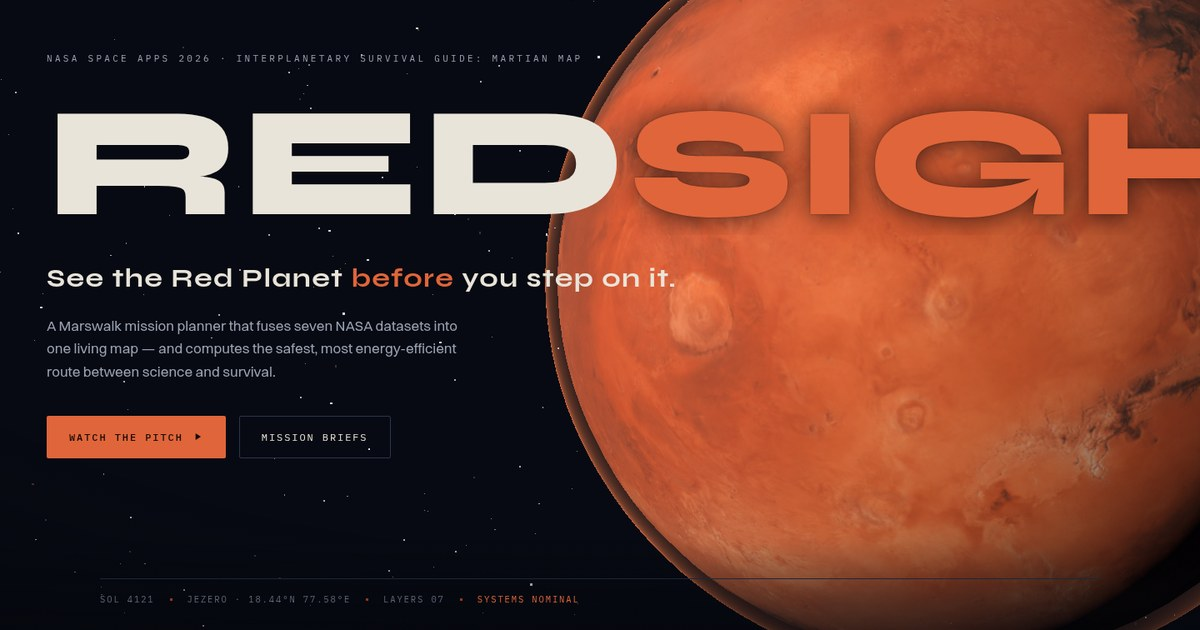
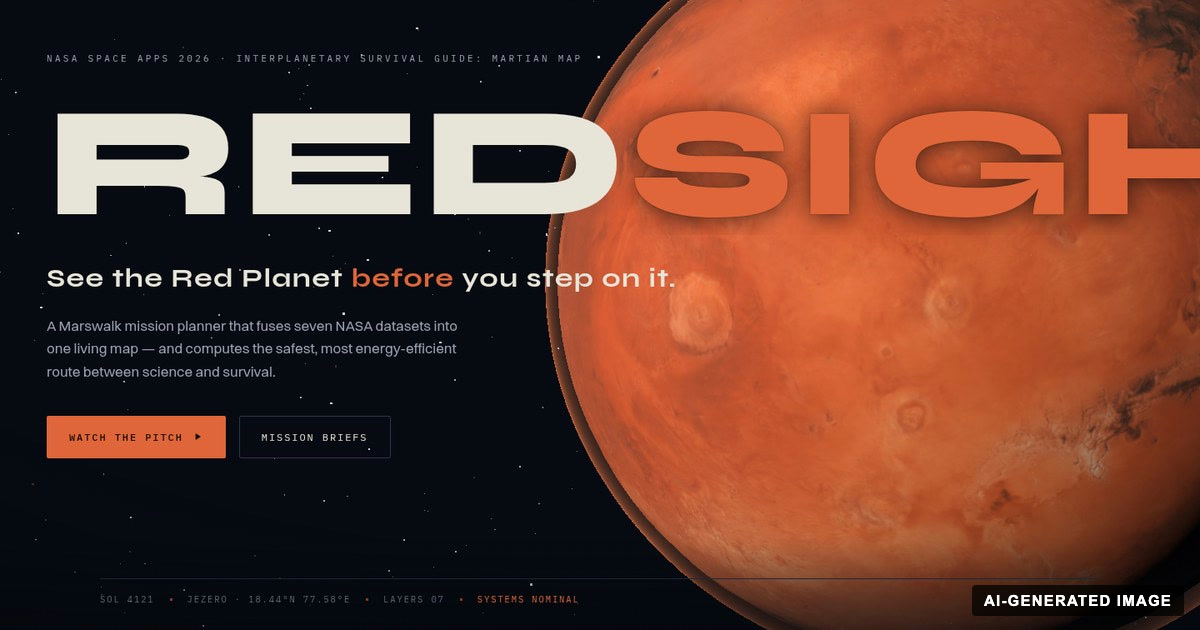
docs+landing: final SI disclosure (Manus AI, Claude; astronaut self-made); visible AI-GENERATED mark on og-image; live copilot reply capture

Changed region(s): [[0.8017, 0.9048, 0.9867, 0.9952]]

diff --git a/docs/submission/project-page.md b/docs/submission/project-page.md
@@ -66,7 +66,7 @@ walk-scale radiation or weather map exists, and the app says so.
 
 ## Use of Super Intelligence (SI)
 
-*Updated 2026-11-14 from the repository. Items marked **[Team: confirm]** are not provable from the repo.*
+*Updated 2026-11-14 from the repository and the team's answers.*
 
 **Idea and decisions: people, not SI.** The team chose the problem framing, the site (Gale crater / lower
 Mount Sharp, boxwork), the features, the oxygen model's sources and the data sources. Per the Submission
@@ -76,7 +76,8 @@ Guide, SI was not used to come up with how to solve the challenge.
 - **Claude Code** (Anthropic; models Claude Opus 5.5 and Claude Sonnet 5.5, credited as co-author on ~96
   commits): helped write and test code (app, engine, server, capture scripts), summarize papers and
   documentation, and edit text. Team members reviewed, ran and tested every change before merging.
-- **[Team: confirm]** any other assistant a member used (e.g. ChatGPT, Gemini, Copilot), and for what.
+- **Claude (claude.ai)** and **Manus AI**: research help, drafting and editing text, and planning; the team checked
+  every claim against primary sources before using it.
 
 **SI inside the app (runtime features, labeled in the UI):**
 - **Voice/text copilot:** a large language model answers questions about the mission plan and can operate
@@ -90,10 +91,10 @@ Guide, SI was not used to come up with how to solve the challenge.
 - **AI-generated audio:** the narration of the walkthrough video and the two astronaut voice clips on
   slide 6 of the deck are synthetic voices (Kokoro TTS). Stated on the video's end card, in its file metadata
   and in the slide notes.
-- **No AI-generated images or video** in the app or demo: map and photos are NASA/USGS data, screen recordings
-  are of the working app. **[Team: confirm]** the origin of the 3D astronaut model
-  (`app/src/copilot/assets/astronaut.glb`) and the landing image (`landing/public/assets/og-image.jpg`): if
-  either was AI-generated, add a visible "AI-generated" mark and list it here.
+- **AI-generated image:** the landing page's share image (`landing/public/assets/og-image.jpg`) is AI-generated;
+  it carries a visible "AI-GENERATED IMAGE" mark.
+- **No other AI-generated images or video:** map and photos are NASA/USGS data, screen recordings are of the
+  working app, and the 3D astronaut model (`app/src/copilot/assets/astronaut.glb`) was made by the team.
 - No NASA logos or branding in any AI-generated content.
 
 ## NASA Data

diff --git a/docs/submission/compliance-remaining-2026-11-14.md b/docs/submission/compliance-remaining-2026-11-14.md
@@ -40,7 +40,7 @@ Sources: [`../../requirements/competition-requirements.md`](../../requirements/c
   - Identify where the source `astronaut_animated.glb` (referenced in [`../astronaut-performance.md`](../astronaut-performance.md), shipped as [`../../app/src/copilot/assets/astronaut.glb`](../../app/src/copilot/assets/astronaut.glb)) came from, its license/permission, and whether it was AI-generated.
   - Add `Solar System Scope (CC BY 4.0)` (`mars-color-2k.jpg`), font licenses (`OFL`), `astronaut.glb`, and software/model dependencies (`MapLibre`, `Three.js`, `Kokoro`, `Whisper` / `@huggingface/transformers`, `Groq` / `Gemini` copilot providers, etc.) to the submission credits in [`project-page.md`](project-page.md), [`../../README.md`](../../README.md), and the Project Description PDF.
   - Check [`../../landing/public/assets/og-image.jpg`](../../landing/public/assets/og-image.jpg) for origin/license and whether it was AI-generated.
-- [ ] **Finalize and team-confirm the SI (AI) disclosure:**
+- [x] **Finalize and team-confirm the SI (AI) disclosure:** *(Done 2026-11-14: team answers added — Manus AI + Claude; astronaut self-made; og-image AI-generated and watermarked.)*
   - [`project-page.md`](project-page.md) §"Use of Super Intelligence (SI)" is an unconfirmed draft mentioning only `Claude Code` (git commits also list `Claude Opus 5.5` and `Claude Sonnet 5.5`), omits runtime AI/SI components (Groq/Gemini LLM copilot, Whisper/Kokoro STT/TTS), and states no AI-generated media is used. *(Add: the deck's slide-6 astronaut voice clips are AI-generated — Kokoro TTS.)*
   - If any shipped image, video, or 3D/audio asset was AI-generated, add a **visible watermark** on AI-generated images/video and acknowledge AI-generated audio/code/data in the descriptive text and metadata.
 - [ ] **Re-run UI & data checks on the final build and live URL:**

diff --git a/README.md b/README.md
@@ -114,9 +114,9 @@ this explicitly. See the provenance inspector in the app.
 ## Super Intelligence (AI) disclosure
 
 The team chose the problem, site, features and data. Claude Code (Claude Opus 5.5 / Sonnet 5.5) helped write and
-test code and edit text; members reviewed and tested every change. In the app, an LLM copilot (Groq / Gemini),
+test code and edit text; Claude (claude.ai) and Manus AI helped with research and drafting; members reviewed and tested every change. In the app, an LLM copilot (Groq / Gemini),
 Whisper speech-to-text and Kokoro text-to-speech are runtime features. The demo narration and slide-6 voice clips
-are AI-generated audio (Kokoro). Full disclosure: [docs/submission/project-page.md](docs/submission/project-page.md).
+are AI-generated audio (Kokoro); the landing share image is AI-generated and marked as such. Full disclosure: [docs/submission/project-page.md](docs/submission/project-page.md).
 
 ## Demo & links *(fill at submission)*
 
